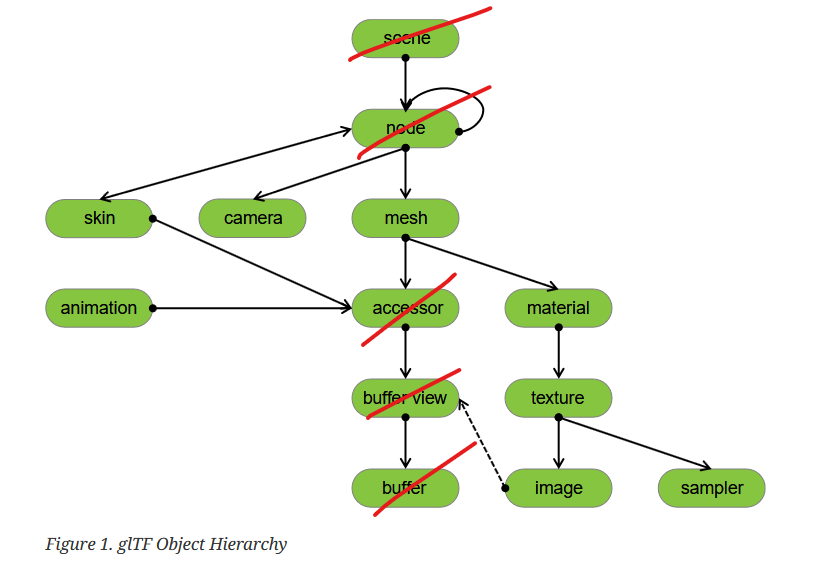
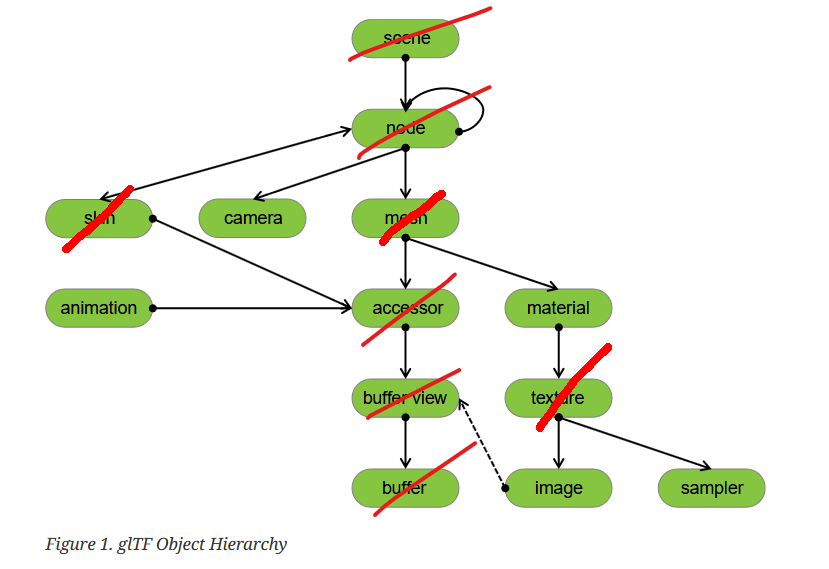
can now read textures

diff --git a/crates/ris_asset/src/codecs/gltf.rs b/crates/ris_asset/src/codecs/gltf.rs
@@ -278,7 +278,11 @@ pub struct Skin {
 
 #[derive(Debug, Clone)]
 pub struct Texture {
-    // todo
+    pub sampler: Option<usize>,
+    pub source: Option<usize>,
+    pub name: Option<String>,
+    pub extensions: Option<JsonObject>,
+    pub extras: Option<JsonValue>,
 }
 
 impl Gltf {
@@ -733,6 +737,31 @@ impl Gltf {
             skins.push(skin);
         }
 
+        // todo: validate skins
+        // skins pose restrictions on nodes, accessors and meshes
+
+        // texture
+        let json_textures = json_gltf.get::<Vec<&JsonObject>>("textures")
+            .unwrap_or(Vec::with_capacity(0));
+        let mut textures = Vec::with_capacity(json_textures.len());
+        for json_texture in json_textures {
+            let sampler = json_texture.get::<usize>("sampler");
+            let source = json_texture.get::<usize>("source");
+            let name = json_texture.get::<String>("name");
+            let extensions = json_texture.get::<&JsonObject>("extensions").cloned();
+            let extras = json_texture.get::<&JsonValue>("extras").cloned();
+
+            let texture = Texture {
+                sampler,
+                source,
+                name,
+                extensions,
+                extras,
+            };
+            textures.push(texture);
+        }
+
+
         // construct gltf
         let extensions_used = json_gltf.get::<Vec<String>>("extensionsUsed")
             .unwrap_or(Vec::with_capacity(0));
@@ -758,7 +787,7 @@ impl Gltf {
             scene,
             scenes,
             skins,
-            textures: Vec::new(),
+            textures,
             extensions,
             extras,
         };

diff --git a/crates/ris_asset/src/importer/glb_importer.rs b/crates/ris_asset/src/importer/glb_importer.rs
@@ -83,7 +83,7 @@ pub fn import(source: impl AsRef<Path>, target_dir: impl AsRef<Path>) -> RisResu
     let gltf = Gltf::deserialize(json)?;
 
     //ris_log::error!("gltf: {:#?}", gltf);
-    for item in gltf.skins.iter() {
+    for item in gltf.textures.iter() {
         ris_log::error!("item: {:?}", item);
     }
     
